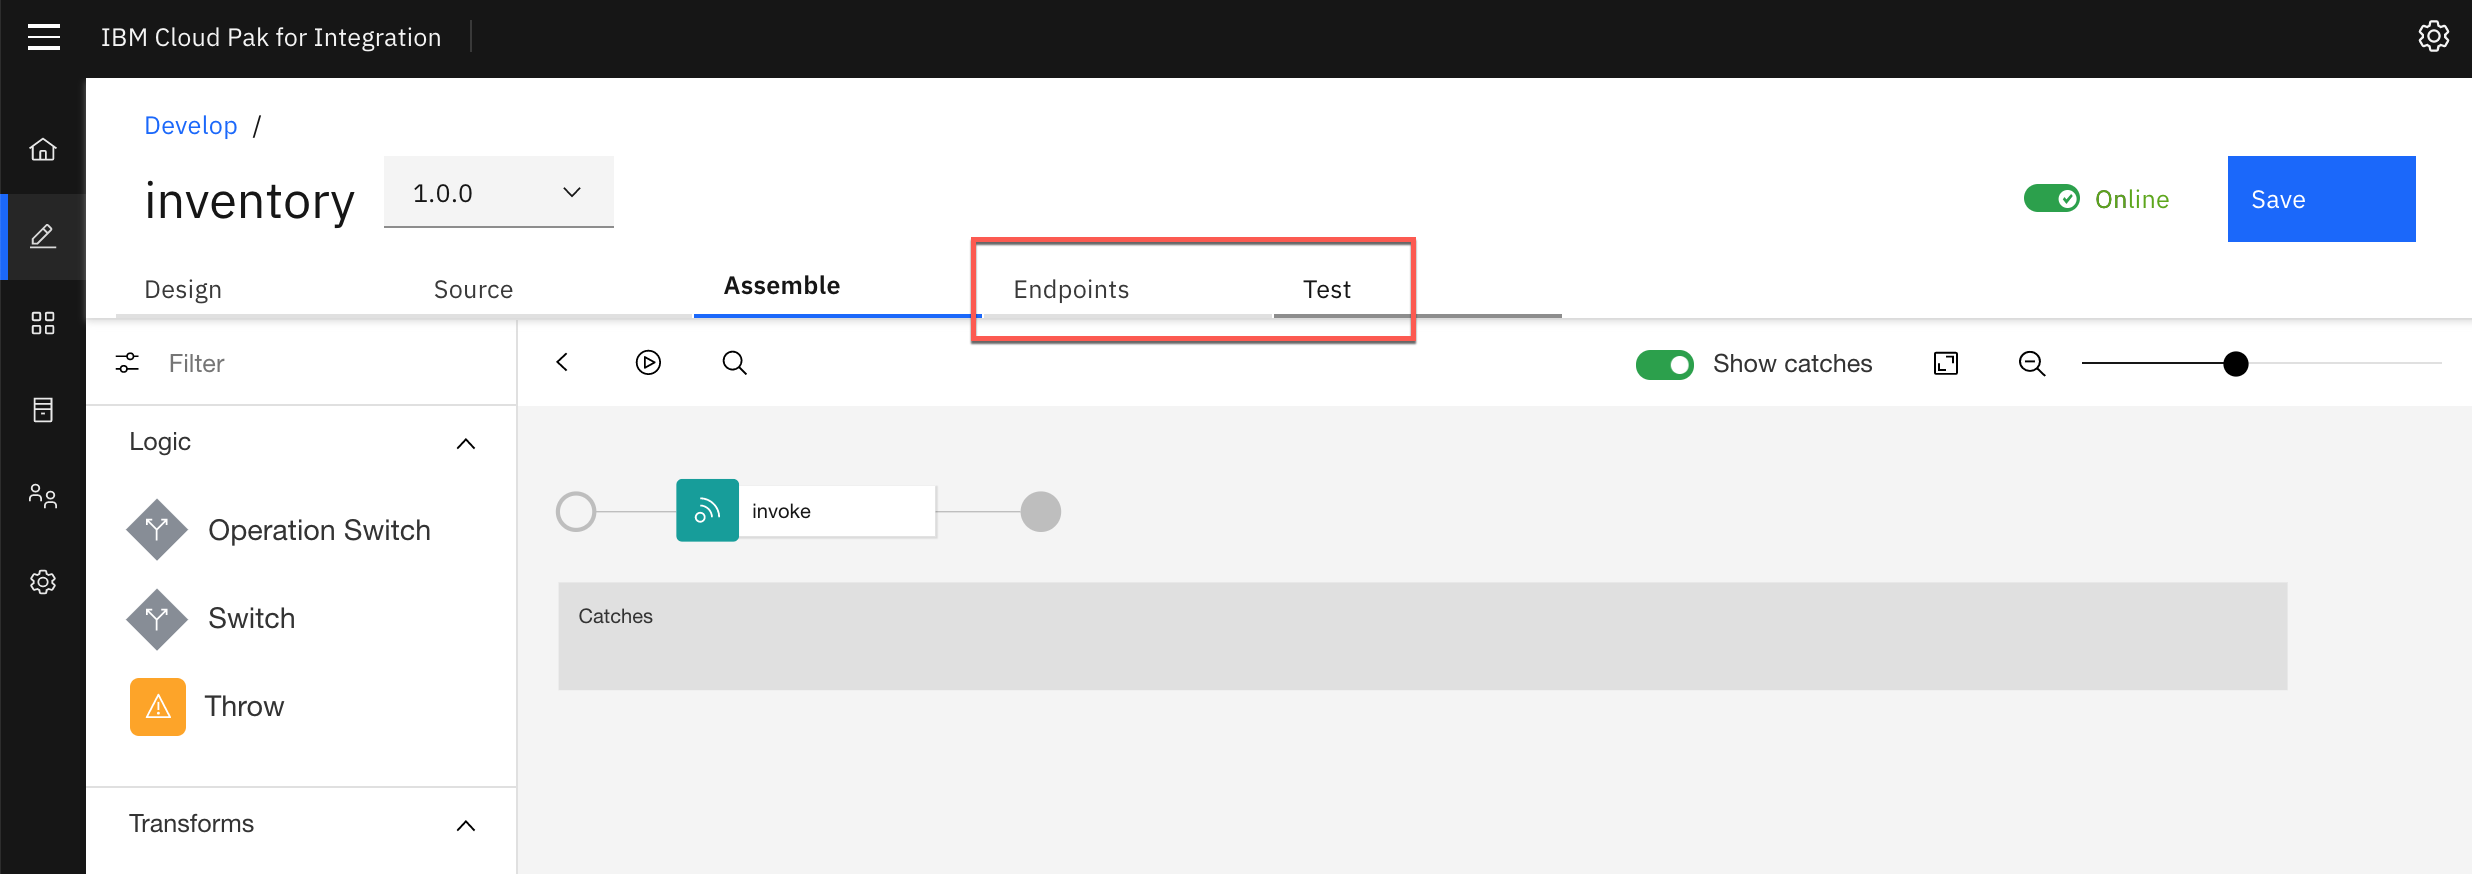
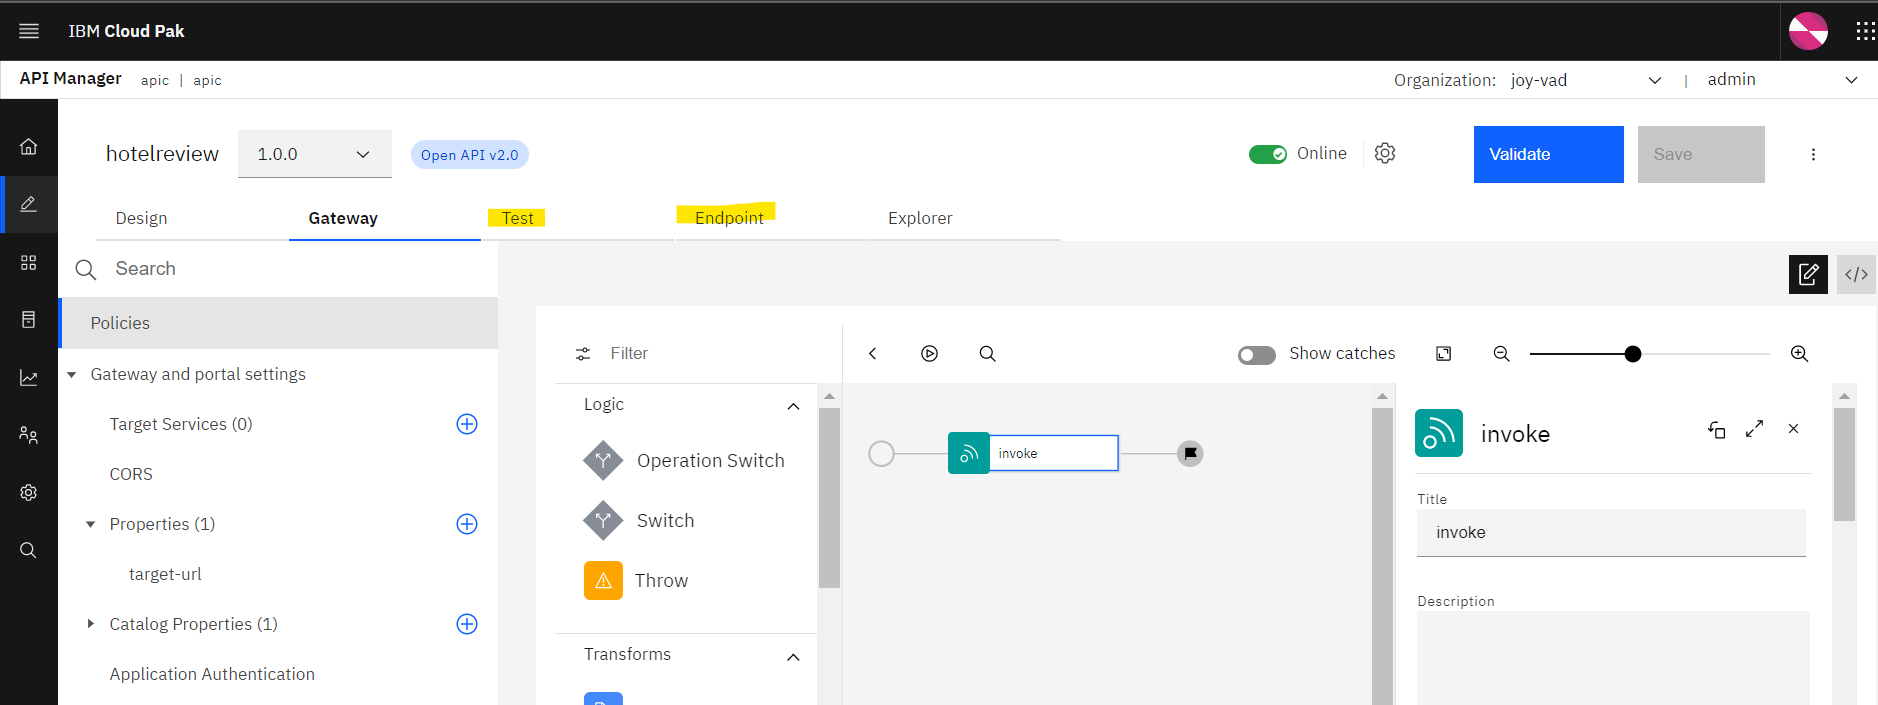
updated lab1 content

diff --git a/instructions/Lab1/index.md b/instructions/Lab1/index.md
@@ -75,11 +75,6 @@ for HotelReview. Then, we will import it to the online workspace.
 
     ![](images/tutorial_html_228c6cdfd6f4d489.png)
 
-    When you login for the first time you will see What's new in API Connect
-    10. Click **Done** after reviewing.
-
-    ![](images/tutorial_html_db2469619b74ee90.png)
-
 2.  Click on the [[Develop APIs and
     Products]] tile
     to enter the online development workspace.
@@ -143,15 +138,12 @@ will configure the proxy call to invoke the endpoint.
  Configure API Key security
 ---------------------------------------------------------------------------------------------------------------------------------------------
 
-1.  Click [[Security
-    Definitions]].
+1.  Click [[Security Schemes]].
 
-2.  In the [[Security
-    Definition]] section,
+2.  In the [[Security Schemes]] section,
     click
     the [[Add]] button
-    on the right. This will open a new view titled [**[API Security
-    Definition]**[.]]
+    on the right. This will open a new view titled [**[Add Object]**[.]]
 
 3.  In the **[Name]** field,
     type [[client-id]].
@@ -164,16 +156,15 @@ will configure the proxy call to invoke the endpoint.
     In]** choose [[Header]].
     For **[Key Type]** choose [[Client
     ID]].
-    In [[Parameter
+    In [[Variable
     Name]] type [[X-IBM-Client-Id]].
     Your screen should look like the image below. 
 
     ![](images/tutorial_html_9acabae1c0f045ea.png)
 
 6.  Click
-    the [[Save]] button
-    to return to the **[Security
-    Definitions]** section.
+    the [[Create]] button
+    to return to the **[Security Schemes]** section.
 
 7.  Click [[Add]] again
     to add the client secret definition.
@@ -184,25 +175,23 @@ will configure the proxy call to invoke the endpoint.
     In]** choose [[Header]].
     For **[Key Type]** choose [[Client
     Secret]].
-    In [[Parameter
+    In [[Variable
     Name]] type [[X-IBM-Client-Secret]].
     Your screen should look like the image below. 
 
     ![](images/tutorial_html_c8364653a0d1e2f5.png)
 
 10. Click
-    the [[Save]] button
-    to return to the **[Security
-    Definitions]** section.
+    the [[Create]] button
+    to return to the **[Security Schemes]** section.
 
 11. Click [[Security]] in
     the left menu.
 
 12. Click [[Add. ]]This will
-    populate the **[Security
-    Definitions]** table with secret and
+    populate the **[Security Schemes]** table with secret and
     client-id. Select both as shown in the image below. Then
-    click [[Save]]. 
+    click [[Create]]. 
 
     ![](images/tutorial_html_41e66c41b43e89ac.png)
 
@@ -214,21 +203,19 @@ will configure the proxy call to invoke the endpoint.
  Define Target-URL for Sandbox environment
 ------------------------------------------------------------------------------------------------------------------------------------------------------------
 
-1.  Click
-    on [[Properties]] in
-    the left menu.
+1.  Click on [[Gateway]] tab in the top menu and expand [[Gateway and portal settings]].
 
-2.  Click on the target-url property. The target-url property is
+2.  Click on the target-url property under [[Properties]] section. The target-url property is
     automatically inserted to be able to define multiple run-time
     targets for the service.
 
-3.  In the **[Default value]** text field,
+3.  In the **[Property value]** text field,
     type [http://hotelreview-http-ace.apps.ocp-060001q8qm-ada2.cloud.techzone.ibm.com/)**[.]**
 
-4.  Click **[Add.]**
+4.  Click Add in the [[Catalog Properties]] and select Choose the [Sandbox] for the name and click Create.
 
-5.  Choose the **[Sandbox catalog]** and
-    for the URL
+5.  Choose [[Sandbox]] and
+    for the target-url
     type [http://hotelreview-http-ace.apps.ocp-060001q8qm-ada2.cloud.techzone.ibm.com/)
 
 ![](images/tutorial_html_f977429f6db6091a.png)
@@ -239,51 +226,47 @@ will configure the proxy call to invoke the endpoint.
  Configure Proxy Call in Designer
 ---------------------------------------------------------------------------------------------------------------------------------------------------
 
-1.  On the top Navigation,
-    click [[Assemble]].
+1.  Click on [[Gateway]] tab in the top menu and Click [[Policies]] in the left navigation.
 
 2.  Click [[Invoke]] in
     the flow
     designer.  ![](images/tutorial_html_eda46641cdf764e6.png)
 
 3.  This will open a window from the right to configure. In the URL
-    field, type [[**\$(target-url)\$(request.path)\$(request.search)**]]. 
+    field, type [[**$(target-url)$(request.path)$(request.search)**]]. 
 
 4.  Click [[Save]].
+
+![](images/tutorial_html_70e7e587c6be69d7.png)
 
  Test the API
 ==================================================================
 
 In the API designer, you have the ability to test the API immediately
-after creation in the Assemble view!
+after creation in the Policies view! 
 
-1.  Click
-    the **[play]** **[icon]** as
-    indicated in the image below. 
-
-    ![](images/tutorial_html_70e7e587c6be69d7.png)
-
-2.  Toggle
+1.  Toggle
     [[Offline]]
     to activate API. to publish the API itself to the gateway for
     testing.  
 
     ![](images/tutorial_html_227e8350d01d16f9.png)
 
-3.  After the API is published, additional tabs appear your screen
+2.  After the API is published, additional tabs appear your screen
     should look like the image below.
     ![](images/tutorial_html_a35d4b82b4aa8b10.png)
 
-4.  Choose **[Test]** tab and append **[/Items]** to the URL as shown below.
+3.  Choose **[Test]** tab and Select GET request **[/reviews]** as shown below.
 
     ![](images/tutorial_html_5e2c8cff09f77c58.png)
 
-5.  Your client Id  and client secret for the sandbox-test-app is
+4.  Your client Id  and client secret for the sandbox-test-app is
     prefilled.
 
-6.  Scroll all the way to the bottom of the test view.
+5.	Add two query parameter to the API request like in the image below.
+    ![](images/queryparam.png)
 
-    ![](images/tutorial_html_6400dc1e94d34fd8.png)
+6.  Scroll all the way to the top of the test view.    
 
 7.  Click [[Send]].
 
@@ -294,7 +277,7 @@ after creation in the Assemble view!
     click [[Send]] again.
 
 10. Now you will see a Response section with Status code 200 OK and the
-    Body displaying all the HotelReview items.
+    Body displaying all the hotel reviews.
 
     ![](images/tutorial_html_d063fb9dba035b70.png)
 
@@ -323,8 +306,7 @@ lab is written to the gateway. 
     Product]**. Then
     click **[Next]**.
 
-4.  For the Title, enter [**[HotelReview
-    APIs]**[.]] Click **[Next]**.
+4.  For the Title, enter [**[HotelReview APIs]**[.]] Click **[Next]**.
 
 5.  Select the **[HotelReview 1.0.0 API]** as
     shown in the image below. Then
